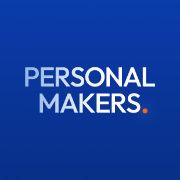
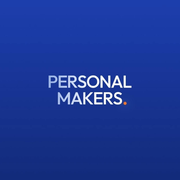
파란 원본 로고로 앱 아이콘 교체 및 웹앱 설치 안내 추가

Changed region(s): [[0.1389, 0.3611, 0.8611, 0.6389]]

diff --git a/js/install.js b/js/install.js
@@ -1,0 +1,40 @@
+/* 설치 창은 브라우저가 허용할 때만 연다. 그 외에는 기기에 맞는 추가 방법을 안내한다. */
+(() => {
+  const card = document.getElementById('installCard');
+  const button = document.getElementById('installApp');
+  const standalone = window.matchMedia('(display-mode: standalone)');
+  let installPrompt = null;
+  const refresh = () => { card.hidden = standalone.matches || navigator.standalone === true; };
+  refresh();
+  standalone.addEventListener('change', refresh);
+  window.addEventListener('beforeinstallprompt', (event) => {
+    event.preventDefault();
+    installPrompt = event;
+  });
+  window.addEventListener('appinstalled', () => {
+    installPrompt = null;
+    card.hidden = true;
+  });
+  button.addEventListener('click', async () => {
+    if (installPrompt) {
+      const prompt = installPrompt;
+      installPrompt = null;
+      button.disabled = true;
+      try {
+        await prompt.prompt();
+        await prompt.userChoice;
+      } catch (error) {
+        alert('브라우저 메뉴에서 “앱 설치” 또는 “홈 화면에 추가”를 선택해 주세요.');
+      } finally { button.disabled = false; }
+      return;
+    }
+    const ua = navigator.userAgent;
+    if (/KAKAOTALK|Instagram|FBAN|FBAV|NAVER/i.test(ua)) {
+      alert('현재 화면의 메뉴에서 “외부 브라우저로 열기”를 선택한 뒤 설치해 주세요.\n\n안드로이드: Chrome 메뉴(⋮) → 홈 화면에 추가 → 설치\n아이폰: Safari 공유 버튼 → 홈 화면에 추가');
+    } else if (/iPhone|iPad|iPod/.test(ua) || (navigator.platform === 'MacIntel' && navigator.maxTouchPoints > 1)) {
+      alert('Safari에서 아래 공유 버튼(□↑)을 누르고 “홈 화면에 추가” → “추가”를 선택해 주세요.');
+    } else {
+      alert('브라우저 메뉴(⋮)에서 “앱 설치” 또는 “홈 화면에 추가”를 선택해 주세요.\n\n설치 항목이 보이지 않으면 Chrome 또는 Samsung Internet에서 다시 열어주세요.');
+    }
+  });
+})();

diff --git a/index.html b/index.html
@@ -12,13 +12,13 @@
   <meta name="description" content="퍼스널메이커스 독서 챌린지 프로세스 이코노미 인증 시스템">
   <link rel="stylesheet" href="css/style.css">
   <link rel="stylesheet" href="css/app.css">
-  <link rel="icon" type="image/png" href="icons/favicon-64.png">
+  <link rel="icon" type="image/png" href="icons/favicon-64.png?v=blue-logo-2">
   <!-- 홈 화면에 추가했을 때 아이콘·이름(아이폰은 apple-touch-icon, 안드로이드는 manifest) -->
-  <link rel="apple-touch-icon" href="icons/apple-touch-icon.png">
+  <link rel="apple-touch-icon" href="icons/apple-touch-icon.png?v=blue-logo-2">
   <link rel="manifest" href="manifest.webmanifest">
   <meta name="apple-mobile-web-app-title" content="퍼메스 독서 멤버십">
   <meta name="apple-mobile-web-app-capable" content="yes">
-  <meta name="mobile-web-app-capable" content="yes"><text y='.9em' font-size='90'>📖</text></svg>">
+  <meta name="mobile-web-app-capable" content="yes">
 </head>
 
 <body class="app">
@@ -48,6 +48,12 @@
 
     <!-- ── 탭: 공지·안내 ── 이번 책 소개와 멤버십 규칙 -->
     <div class="pane" data-pane="info" id="pane-info">
+
+    <section class="card install-card" id="installCard" hidden>
+      <img src="icons/icon-192.png?v=blue-logo-2" width="48" height="48" alt="퍼스널메이커스">
+      <div><strong>홈 화면에서 바로 만나요</strong><p>파란 아이콘으로 독서 멤버십을 편하게 열어보세요.</p></div>
+      <button type="button" id="installApp">웹앱 설치</button>
+    </section>
 
     <!-- 책 소개 -->
     <section class="card intro">
@@ -410,6 +416,7 @@
   <script src="js/progress-card.js"></script>
   <script src="js/app.js"></script>
   <script src="js/tabs.js"></script>
+  <script src="js/install.js"></script>
 </body>
 
 </html>

diff --git a/feed-all.html b/feed-all.html
@@ -10,13 +10,13 @@
   <meta name="description" content="지금까지 제출된 모든 인증글을 최신순으로 한눈에 볼 수 있는 페이지입니다.">
   <link rel="stylesheet" href="css/style.css">
   <link rel="stylesheet" href="css/app.css">
-  <link rel="icon" type="image/png" href="icons/favicon-64.png">
+  <link rel="icon" type="image/png" href="icons/favicon-64.png?v=blue-logo-2">
   <!-- 홈 화면에 추가했을 때 아이콘·이름(아이폰은 apple-touch-icon, 안드로이드는 manifest) -->
-  <link rel="apple-touch-icon" href="icons/apple-touch-icon.png">
+  <link rel="apple-touch-icon" href="icons/apple-touch-icon.png?v=blue-logo-2">
   <link rel="manifest" href="manifest.webmanifest">
   <meta name="apple-mobile-web-app-title" content="퍼메스 독서 멤버십">
   <meta name="apple-mobile-web-app-capable" content="yes">
-  <meta name="mobile-web-app-capable" content="yes"><text y='.9em' font-size='90'>📖</text></svg>">
+  <meta name="mobile-web-app-capable" content="yes">
 </head>
 
 <body class="app">

diff --git a/admin.html b/admin.html
@@ -7,13 +7,13 @@
 <title>운영진 대시보드</title>
 <link rel="stylesheet" href="css/style.css">
 <link rel="stylesheet" href="css/admin.css">
-<link rel="icon" type="image/png" href="icons/favicon-64.png">
+<link rel="icon" type="image/png" href="icons/favicon-64.png?v=blue-logo-2">
 <!-- 홈 화면에 추가했을 때 아이콘·이름(아이폰은 apple-touch-icon, 안드로이드는 manifest) -->
-<link rel="apple-touch-icon" href="icons/apple-touch-icon.png">
+<link rel="apple-touch-icon" href="icons/apple-touch-icon.png?v=blue-logo-2">
 <link rel="manifest" href="manifest.webmanifest">
 <meta name="apple-mobile-web-app-title" content="퍼메스 독서 멤버십">
 <meta name="apple-mobile-web-app-capable" content="yes">
-<meta name="mobile-web-app-capable" content="yes"><text y='.9em' font-size='90'>📖</text></svg>">
+<meta name="mobile-web-app-capable" content="yes">
 </head>
 <body class="admin">
 

diff --git a/css/app.css b/css/app.css
@@ -520,3 +520,11 @@ body.app {
 .app .weekly-awards { background: var(--tint); border-color: var(--tint-line); }
 /* 진행 링 바탕선도 연파랑 — 파란 링이 회색 위보다 또렷하게 이어져 보이게 */
 .app .ring-track { stroke: var(--tint-line); }
+
+/* 홈 화면 설치: 공지·안내 탭에서 언제든 다시 찾을 수 있다. */
+.install-card { display: flex; align-items: center; gap: 12px; flex-wrap: wrap; }
+.install-card[hidden] { display: none; }
+.install-card img { border-radius: 12px; flex: none; }
+.install-card div { flex: 1; min-width: 170px; }
+.install-card p { margin: 4px 0 0; font-size: 13px; color: var(--text-dim); }
+.install-card button { margin-left: auto; }
